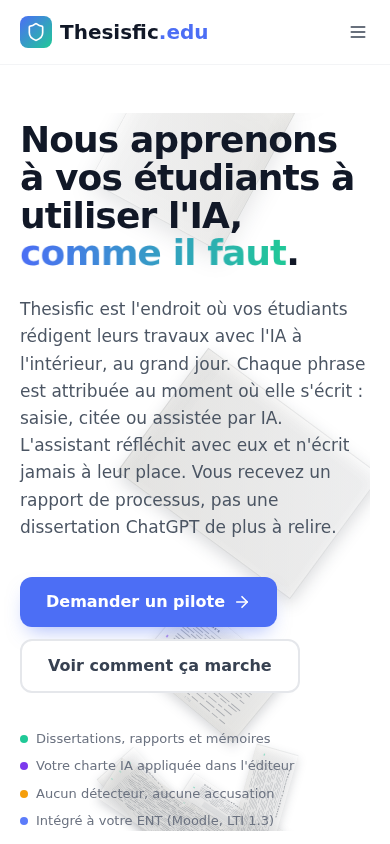
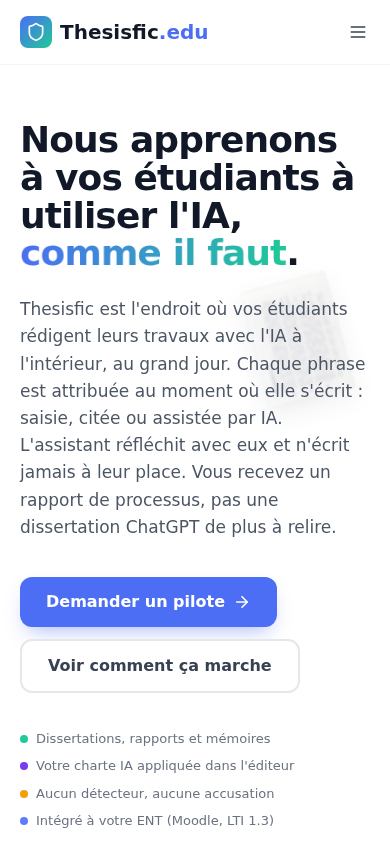
feat(landing): papers fall through, blurred and faint, and dissolve with no edge
No floor any more: the sheets keep falling, softly blurred (canvas filter) at
30% opacity at most, fade in just under the top of the column and dissolve
gradually over the lower part of it, so there is no line where they stop. On
desktop they stay within the left 36% of the hero, clear of the student's
orbit even at its leftmost point; on phones within the copy column above the
orbit band.

Claude-Session: https://claude.ai/code/session_01NfcTCs5dN5Mu3KAtotkdT9

diff --git a/src/components/landing/FallingPapers.tsx b/src/components/landing/FallingPapers.tsx
@@ -4,11 +4,11 @@ import { useEffect, useRef } from "react";
 import { useT } from "@/lib/i18n/client";
 
 /**
- * Hero background: sheets of written work (essays, reports, theses) fall from above, tumbling and swaying, and
- * come to rest on an invisible floor at the bottom of the copy column, where they pile up; the oldest fade away
- * to make room. Canvas 2D with soft shadows, paper shading and typeset-looking lines. The sheets stay in the
- * copy column: the left part of the hero on desktop (the orbit lives on the right), the whole column on phones
- * (the orbit has its own band below). One still frame under reduced motion.
+ * Hero background: sheets of written work (essays, reports, theses) fall from above, tumbling and swaying, soft
+ * and blurred, and dissolve gradually over the lower part of the copy column (no floor, no hard edge). Canvas 2D
+ * with paper shading, soft shadows and typeset-looking lines. The sheets stay in the copy column: the left part
+ * of the hero on desktop (the orbit lives on the right), the whole column on phones (the orbit has its own band
+ * below). One still frame under reduced motion.
  */
 
 type Sheet = {
@@ -18,15 +18,14 @@ type Sheet = {
   theta: number; vtheta: number; // tumble around the horizontal axis (foreshortening)
   sway: number; swayAmp: number; swaySpeed: number;
   kind: number; seed: number;
-  landed: boolean; restY: number; restPhi: number; age: number; fade: number;
 };
 
-const MAX_FALLING = 7;
-const MAX_PILE = 8;
-const SPAWN_EVERY = 1.35; // s
-const G = 220; // px/s²
-const V_MAX = 150; // px/s
-const PILE_STEP = 2.2; // px per settled sheet
+const MAX_SHEETS = 8;
+const SPAWN_EVERY = 1.3; // s
+const G = 160; // px/s²
+const V_MAX = 120; // px/s
+const BASE_ALPHA = 0.3;
+const BLUR_PX = 1.4;
 
 const rnd = (a: number, b: number) => a + Math.random() * (b - a);
 // Deterministic pseudo-random per sheet, so the "typeset" lines do not flicker between frames.
@@ -54,7 +53,7 @@ export default function FallingPapers({ className = "" }: { className?: string }
     let last = performance.now();
     let sinceSpawn = 0;
 
-    const zoneWidth = (W: number) => (window.matchMedia("(min-width: 768px)").matches ? Math.min(W * 0.44, 560) : W);
+    const zoneWidth = (W: number) => (window.matchMedia("(min-width: 768px)").matches ? Math.min(W * 0.36, 460) : W);
 
     const spawn = (W: number, H: number, startY?: number): Sheet => {
       const w = rnd(118, 168);
@@ -62,29 +61,29 @@ export default function FallingPapers({ className = "" }: { className?: string }
       const zw = zoneWidth(W);
       return {
         x: rnd(w * 0.5, Math.max(w * 0.6, zw - w * 0.5)),
-        y: startY ?? -h - rnd(0, H * 0.4),
+        y: startY ?? -h - rnd(0, H * 0.3),
         w, h,
-        vy: rnd(20, 60),
+        vy: rnd(15, 50),
         phi: rnd(-0.35, 0.35), vphi: rnd(-0.5, 0.5),
         theta: rnd(0, Math.PI * 2), vtheta: rnd(0.8, 1.9) * (Math.random() < 0.5 ? -1 : 1),
         sway: rnd(0, Math.PI * 2), swayAmp: rnd(18, 48), swaySpeed: rnd(0.9, 1.6),
         kind: Math.floor(Math.random() * 3), seed: Math.floor(Math.random() * 1e9),
-        landed: false, restY: 0, restPhi: 0, age: 0, fade: 1,
       };
     };
 
-    const drawSheet = (s: Sheet, alpha: number, sy: number, shadow: number) => {
+    const drawSheet = (s: Sheet, alpha: number, sy: number, low: number) => {
       const r = prng(s.seed);
       const { w, h } = s;
       ctx.save();
+      if ("filter" in ctx) ctx.filter = `blur(${BLUR_PX}px)`;
       ctx.translate(s.x, s.y);
       ctx.rotate(s.phi);
       ctx.scale(1, Math.max(0.06, Math.abs(sy)));
       ctx.globalAlpha = alpha;
-      // Drop shadow: wide and soft in the air, tight on the floor
-      ctx.shadowColor = `rgba(17,24,39,${0.18 + 0.18 * shadow})`;
-      ctx.shadowBlur = 26 - 16 * shadow;
-      ctx.shadowOffsetY = 10 - 6 * shadow;
+      // Drop shadow: wide and soft high up, a little tighter lower down
+      ctx.shadowColor = `rgba(17,24,39,${0.18 + 0.12 * low})`;
+      ctx.shadowBlur = 26 - 10 * low;
+      ctx.shadowOffsetY = 10 - 4 * low;
       // Paper: a slightly warm white with a lighting gradient across the sheet
       const g = ctx.createLinearGradient(-w / 2, -h / 2, w / 2, h / 2);
       g.addColorStop(0, "#ffffff");
@@ -125,7 +124,6 @@ export default function FallingPapers({ className = "" }: { className?: string }
       let line = 0;
       while (y < h / 2 - pad * 1.3) {
         if (s.kind !== 1 && para === 1 && line === 0 && r() < 0.6) {
-          // a figure block with a caption
           const fh = h * 0.14;
           const fg = ctx.createLinearGradient(left, y, left + width, y + fh);
           fg.addColorStop(0, "rgba(107,114,128,.18)");
@@ -139,7 +137,6 @@ export default function FallingPapers({ className = "" }: { className?: string }
           para++;
           continue;
         }
-        // one line = a run of words of varying width
         let x = left;
         const end = left + width * (line === 0 ? 1 : r() < 0.18 ? rnd(0.45, 0.8) : 1);
         ctx.fillStyle = "rgba(55,65,81,.72)";
@@ -182,70 +179,36 @@ export default function FallingPapers({ className = "" }: { className?: string }
       }
       const dt = Math.min(0.05, (now - last) / 1000);
       last = now;
-      const floor = H - 6;
       if (reduce && !sheets.length) {
-        // A still: a few sheets resting on the floor and two in the air.
-        for (let i = 0; i < 5; i++) {
-          const s = spawn(W, H, 0);
-          s.landed = true;
-          s.restY = floor - i * PILE_STEP;
-          s.y = s.restY;
-          s.restPhi = rnd(-0.3, 0.3);
-          s.phi = s.restPhi;
-          sheets.push(s);
-        }
-        for (let i = 0; i < 2; i++) {
-          const s = spawn(W, H, rnd(H * 0.2, H * 0.6));
-          sheets.push(s);
-        }
+        for (let i = 0; i < 6; i++) sheets.push(spawn(W, H, rnd(H * 0.05, H * 0.8)));
       }
       if (!reduce) {
         sinceSpawn += dt;
-        const falling = sheets.filter((s) => !s.landed).length;
-        if (sinceSpawn > SPAWN_EVERY && falling < MAX_FALLING) {
+        if (sinceSpawn > SPAWN_EVERY && sheets.length < MAX_SHEETS) {
           sinceSpawn = 0;
           sheets.push(spawn(W, H));
         }
-        const landed = sheets.filter((s) => s.landed);
         for (const s of sheets) {
-          s.age += dt;
-          if (!s.landed) {
-            s.vy = Math.min(V_MAX, s.vy + G * dt);
-            s.y += s.vy * dt;
-            s.sway += s.swaySpeed * dt;
-            s.x += Math.cos(s.sway) * s.swayAmp * dt;
-            s.phi += s.vphi * dt + Math.sin(s.sway) * 0.004;
-            s.theta += s.vtheta * dt;
-            if (s.y + s.h * 0.1 >= floor - landed.length * PILE_STEP) {
-              s.landed = true;
-              s.restY = floor - landed.length * PILE_STEP;
-              s.y = s.restY;
-              s.restPhi = s.phi + rnd(-0.08, 0.08);
-              landed.push(s);
-            }
-          } else {
-            // settle flat; the oldest sheets of a full pile fade and leave
-            s.phi += (s.restPhi - s.phi) * Math.min(1, dt * 6);
-            const idx = landed.indexOf(s);
-            if (landed.length > MAX_PILE && idx < landed.length - MAX_PILE) s.fade = Math.max(0, s.fade - dt / 2.2);
-          }
+          s.vy = Math.min(V_MAX, s.vy + G * dt);
+          s.y += s.vy * dt;
+          s.sway += s.swaySpeed * dt;
+          s.x += Math.cos(s.sway) * s.swayAmp * dt;
+          s.phi += s.vphi * dt + Math.sin(s.sway) * 0.004;
+          s.theta += s.vtheta * dt;
         }
-        for (let i = sheets.length - 1; i >= 0; i--) if (sheets[i].fade <= 0) sheets.splice(i, 1);
+        for (let i = sheets.length - 1; i >= 0; i--) if (sheets[i].y - sheets[i].h / 2 > H) sheets.splice(i, 1);
       }
 
       ctx.setTransform(dpr, 0, 0, dpr, 0, 0);
       ctx.clearRect(0, 0, W, H);
-      // Floor first (oldest at the bottom), then the air, far to near by size
-      const landed = sheets.filter((s) => s.landed);
-      const air = sheets.filter((s) => !s.landed).sort((a, b) => a.w - b.w);
-      landed.forEach((s, i) => {
-        // On the floor the sheet is seen at a low angle: strongly foreshortened, nudged up by its place in the pile
-        s.y = s.restY - i * 0.4;
-        drawSheet(s, 0.42 * s.fade, 0.22, 1);
-      });
-      for (const s of air) {
-        const near = Math.max(0, Math.min(1, (s.y + s.h / 2) / H)); // closer to the floor: tighter shadow
-        drawSheet(s, 0.5, Math.cos(s.theta), near);
+      // Far to near by size. A sheet fades in under the top edge and dissolves over the lower part of the column.
+      for (const s of sheets.slice().sort((a, b) => a.w - b.w)) {
+        const bottom = s.y + s.h / 2;
+        const fadeIn = Math.max(0, Math.min(1, bottom / (H * 0.18)));
+        const fadeOut = Math.max(0, Math.min(1, (H * 0.98 - (s.y - s.h / 2)) / (H * 0.45)));
+        const alpha = BASE_ALPHA * fadeIn * fadeOut * fadeOut;
+        if (alpha < 0.004) continue;
+        drawSheet(s, alpha, Math.cos(s.theta), Math.max(0, Math.min(1, s.y / H)));
       }
       if (!reduce) raf = requestAnimationFrame(frame);
     };

diff --git a/src/components/landing/Hero.tsx b/src/components/landing/Hero.tsx
@@ -23,7 +23,7 @@ export default function Hero() {
   return (
     <section ref={heroRef} className="relative overflow-hidden px-5 sm:px-8 pt-12 lg:pt-[72px] pb-14">
       <div className="relative mx-auto max-w-[1200px] grid grid-cols-1 md:grid-cols-[minmax(0,1fr)_104px] gap-8 items-start lg:min-h-[560px]">
-        {/* Papers fall in the copy column and settle on an invisible floor at its bottom; the orbit keeps the right */}
+        {/* Papers fall through the copy column and dissolve before its bottom; the orbit keeps the right */}
         <FallingPapers />
         <HeroScene heroRef={heroRef} textRef={textRef} />
 
